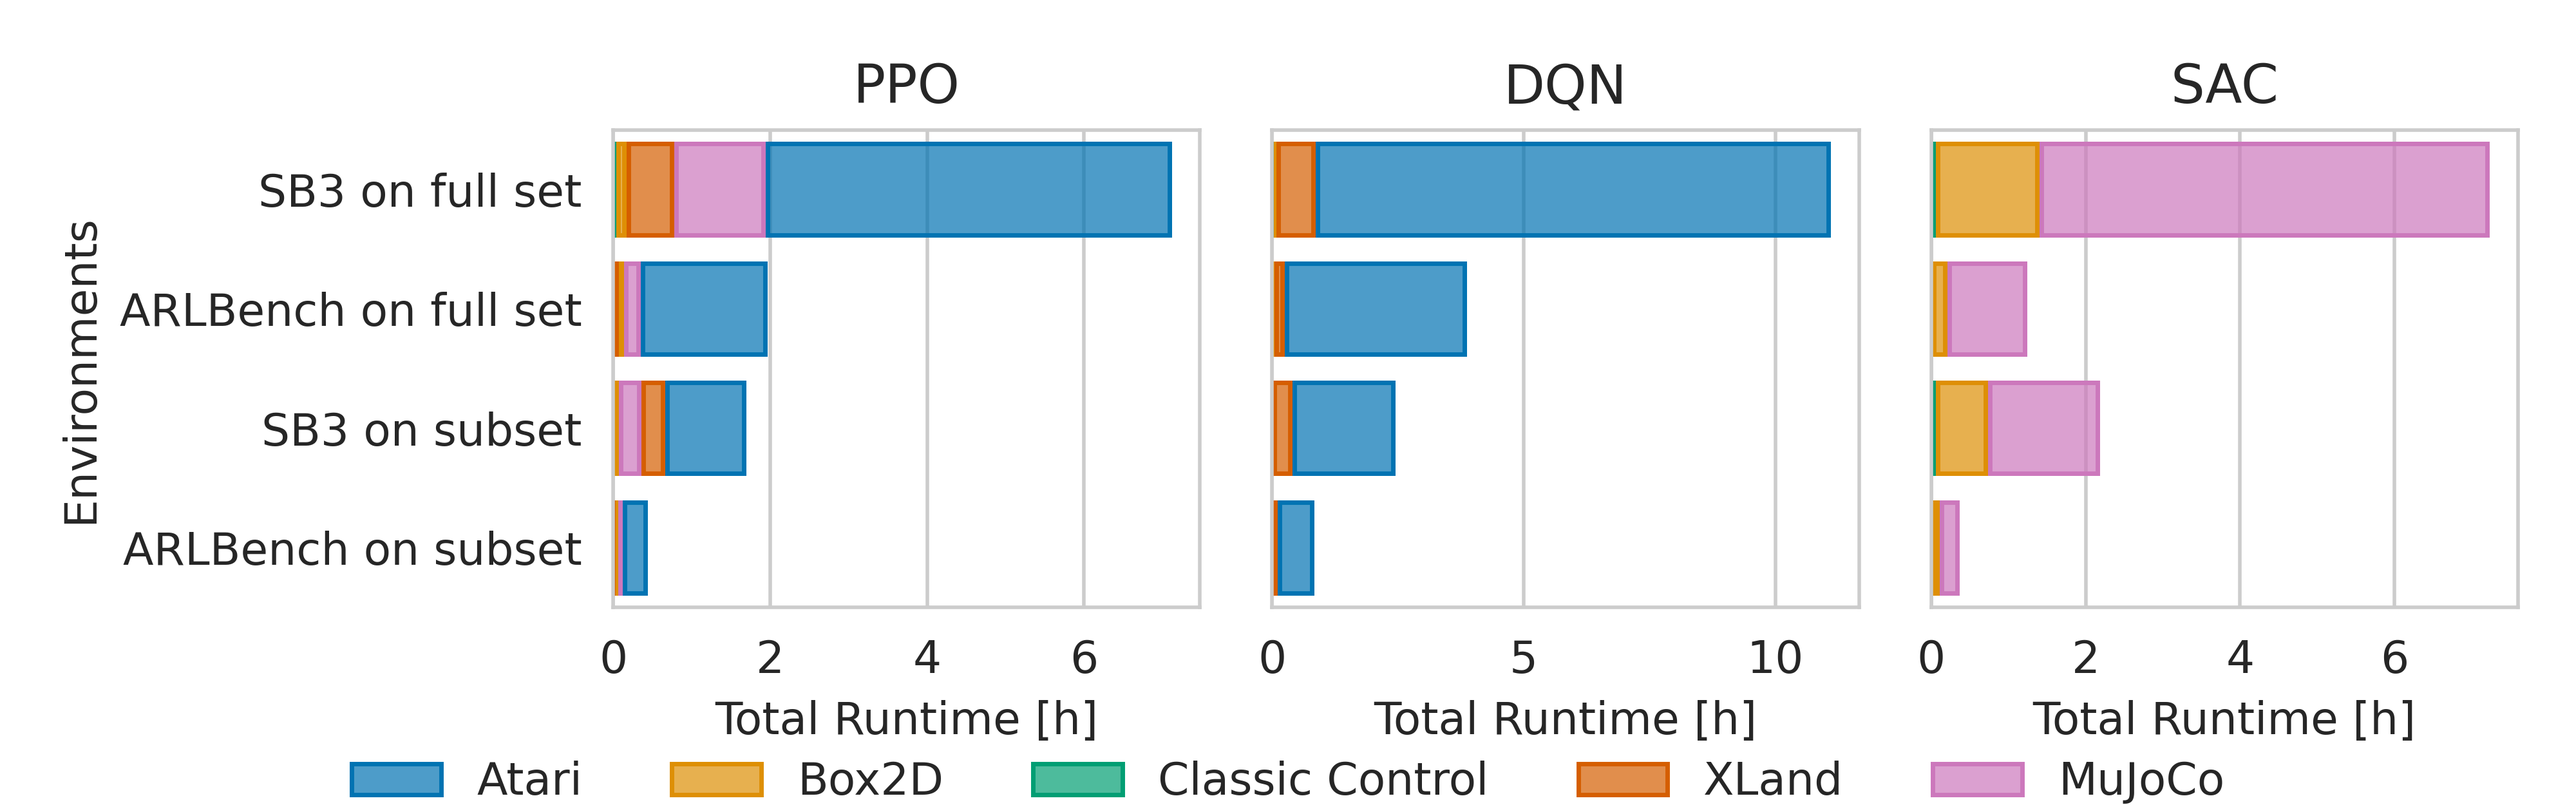
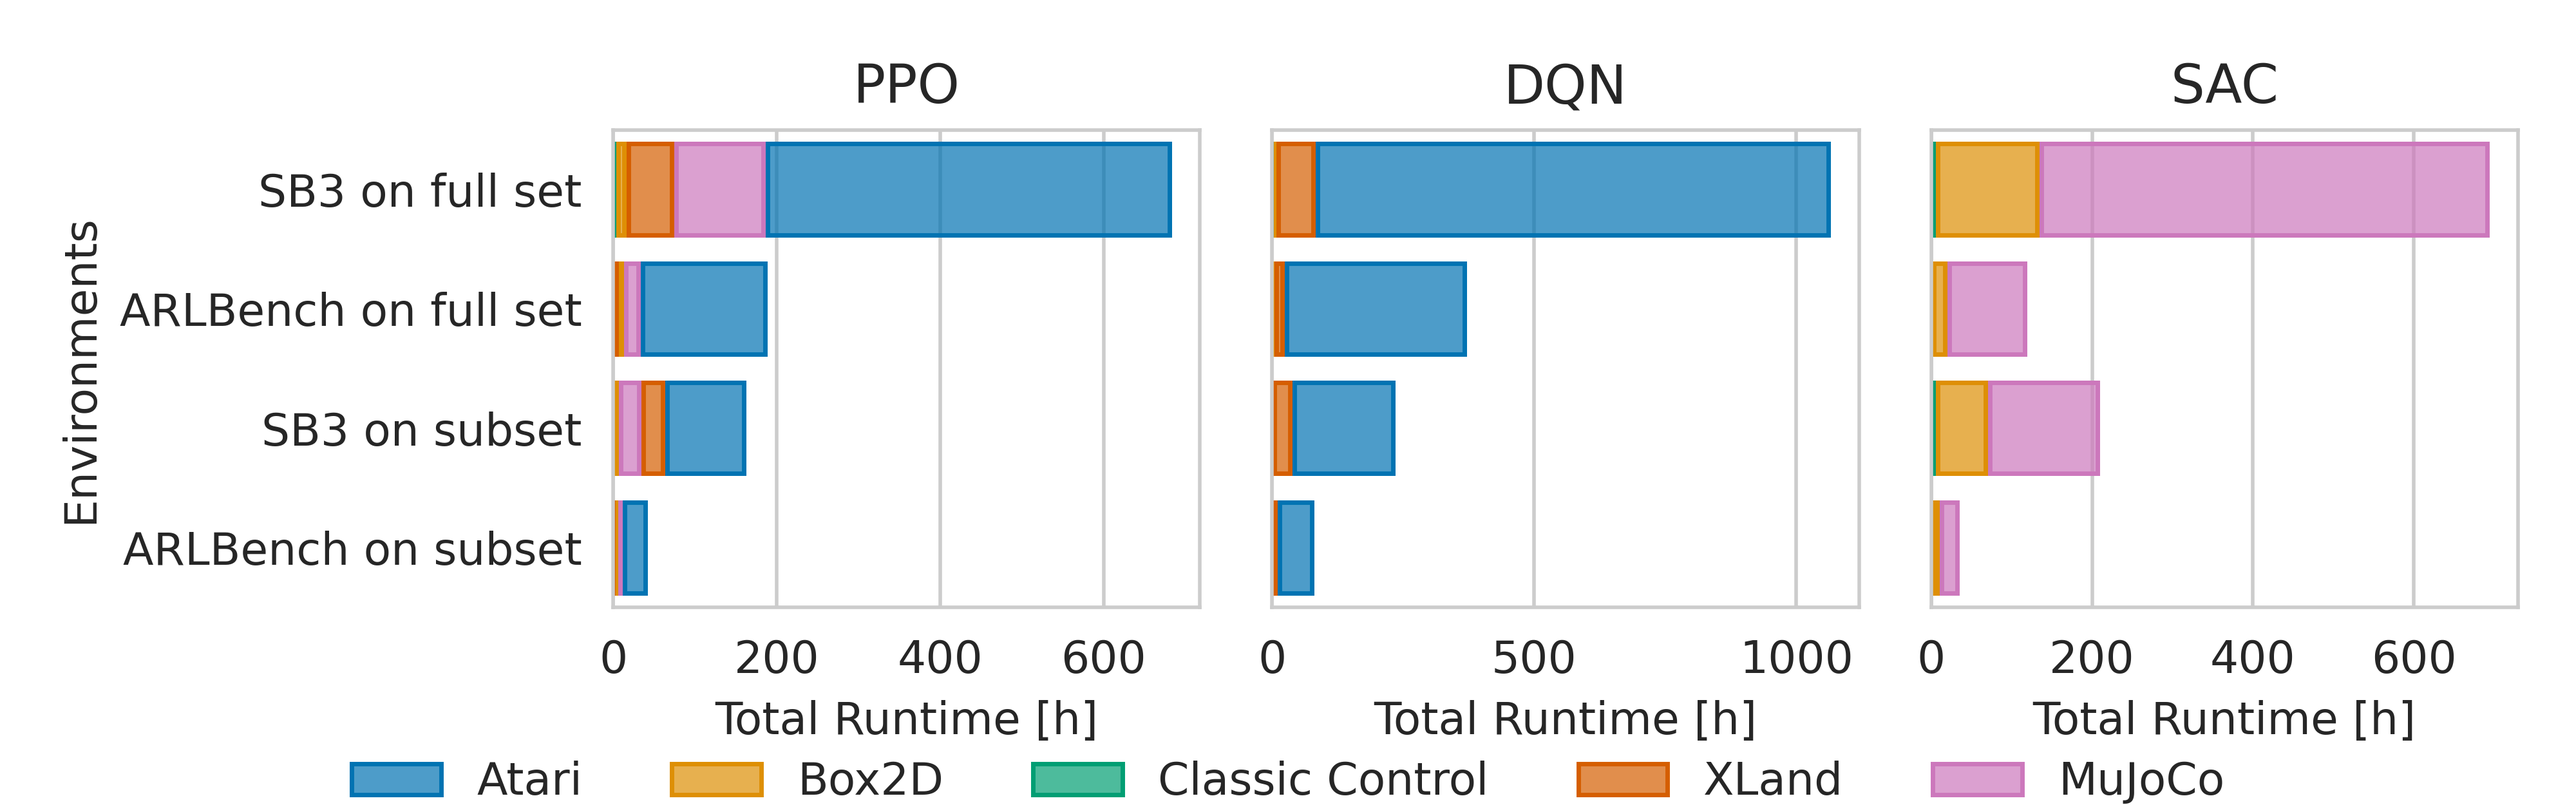
updated plots

diff --git a/runtime_comparisons/plot_optimizers_over_time.py b/runtime_comparisons/plot_optimizers_over_time.py
@@ -5,7 +5,78 @@ import os
 from scipy.interpolate import interp1d
 import numpy as np
 import gc
+from collections import defaultdict
+import warnings
+import logging
+import sys
 
+
+logging.basicConfig(stream=sys.stdout, level=logging.INFO, format="%(asctime)s %(message)s")
+
+warnings.filterwarnings("ignore")
+
+RAW_SOBOL_RESULTS = "results_combined/sobol"
+
+EXPERIMENT_TO_ENV = {
+    "brax_halfcheetah": "halfcheetah",
+    "procgen_heist_easy": "HeistEasy-v0",
+    "minigrid_unlock": "MiniGrid-Unlock",
+    "procgen_plunder_easy": "PlunderEasy-v0",
+    "procgen_jumper_easy": "JumperEasy-v0",
+    "mujoco_inverted_double_pendulum": "InvertedDoublePendulum-v4",
+    "cc_cartpole": "CartPole-v1",
+    "procgen_bossfight_easy": "BossfightEasy-v0",
+    "procgen_climber_easy": "ClimberEasy-v0",
+    "atari_breakout": "Breakout-v5",
+    "brax_swimmer": "swimmer",
+    "brax_walker2d": "walker2d",
+    "procgen_maze_easy": "MazeEasy-v0",
+    "brax_fast": "fast",
+    "procgen_dodgeball_easy": "DodgeballEasy-v0",
+    "cc_pendulum": "Pendulum-v1",
+    "brax_inverted_double_pendulum": "inverted_double_pendulum",
+    "brax_humanoid_standup": "humanoidstandup",
+    "atari_pong": "Pong-v5",
+    "minigrid_empty_random": "MiniGrid-EmptyRandom-5x5",
+    "procgen_ninja_easy": "NinjaEasy-v0",
+    "box2d_lunar_lander": "LunarLander-v2",
+    "atari_battle_zone": "BattleZone-v5",
+    "brax_pusher": "pusher",
+    "procgen_starpilot_easy": "StarpilotEasy-v0",
+    "mujoco_reacher": "Reacher-v4",
+    "atari_double_dunk": "DoubleDunk-v5",
+    "mujoco_humanoid_standup": "HumanoidStandup-v4",
+    "procgen_leaper_easy": "LeaperEasy-v0",
+    "atari_phoenix": "Phoenix-v5",
+    "mujoco_ant": "Ant-v4",
+    "mujoco_pusher": "Pusher-v4",
+    "mujoco_hopper": "Hopper-v4",
+    "mujoco_inverted_pendulum": "InvertedPendulum-v4",
+    "procgen_bigfish_easy": "BigfishEasy-v0",
+    "mujoco_swimmer": "Swimmer-v4",
+    "brax_hopper": "hopper",
+    "brax_ant": "ant",
+    "atari_this_game": "NameThisGame-v5",
+    "mujoco_halfcheetah": "HalfCheetah-v4",
+    "mujoco_humanoid": "Humanoid-v4",
+    "brax_reacher": "reacher",
+    "procgen_miner_easy": "MinerEasy-v0",
+    "procgen_chaser_easy": "ChaserEasy-v0",
+    "cc_continuous_mountain_car": "MountainCarContinuous-v0",
+    "minigrid_four_rooms": "MiniGrid-FourRooms",
+    "brax_inverted_pendulum": "inverted_pendulum",
+    "atari_qbert": "Qbert-v5",
+    "cc_mountain_car": "MountainCar-v0",
+    "procgen_coinrun_easy": "CoinrunEasy-v0",
+    "box2d_lunar_lander_continuous": "LunarLanderContinuous-v2",
+    "minigrid_door_key": "MiniGrid-DoorKey-5x5",
+    "box2d_bipedal_walker": "BipedalWalker-v3",
+    "cc_acrobot": "Acrobot-v1",
+    "procgen_fruitbot_easy": "FruitbotEasy-v0",
+    "mujoco_walker2d": "Walker2d-v4",
+    "procgen_caveflyer_easy": "CaveflyerEasy-v0",
+    "brax_humanoid": "humanoid",
+}
 
 OPTIMIZERS = ["rs", "smac", "smac_mf", "pbt"]
 OPTIMIZER_NAMES = {
@@ -52,7 +123,39 @@ sns.set_style("whitegrid")
 sns.set_palette("colorblind")
 
 
+def read_min_max_scores():
+    min_score = defaultdict(dict)
+    max_score = defaultdict(dict)
+
+    for result_file in os.listdir(RAW_SOBOL_RESULTS):
+        result_path = os.path.join(RAW_SOBOL_RESULTS, result_file)
+        if os.path.isdir(result_path):
+            continue
+
+        result_raw = pd.read_csv(result_path)
+
+        # We don"t need the particular hyperparameter configuration
+        result_filtered = result_raw[["run_id", "performance", "seed"]]
+
+        # Match desired format
+        result_filtered = result_filtered.rename(
+            columns={"run_id": "Configuration", "performance": "Score", "seed": "Seed"}
+        )
+
+        # Extract properties from the file name of the result
+        splitted_filename = result_file.replace(".csv", "").split("_")
+        algorithm = splitted_filename[-1]
+        environment = "_".join(splitted_filename[:-1])
+
+        environment = EXPERIMENT_TO_ENV[environment]
+
+        min_score[algorithm][environment] = result_filtered["Score"].min()
+        max_score[algorithm][environment] = result_filtered["Score"].max()
+
+    return min_score, max_score
+
 def read_opt_data(exp: str):
+    logging.info(f"Reading {exp}")
     all_data = []
 
     for opt in OPTIMIZERS:
@@ -103,8 +206,8 @@ def interpolate(opt_data: pd.DataFrame) -> pd.DataFrame:
         new_cum_budget = pd.Series(np.arange(int(min_budget), int(max_opt_budget) + 1, 100), name="cum_budget")
         df_merged = pd.DataFrame(new_cum_budget)
 
-        df_merged = pd.merge(df_merged, group_opt_data, on="cum_budget", how="left")
-        interpolated_opt_data = df_merged.interpolate(method="linear")
+        interpolated_opt_data = pd.merge(df_merged, group_opt_data, on="cum_budget", how="left")
+        interpolated_opt_data["performance"] = interpolated_opt_data["performance"].ffill()
         interpolated_opt_data = interpolated_opt_data[interpolated_opt_data["cum_budget"] <= max_budget + 1]
 
 
@@ -117,64 +220,93 @@ def interpolate(opt_data: pd.DataFrame) -> pd.DataFrame:
     interpolated_data = df[df["cum_budget"] % STEP_SIZE == 0]
     interpolated_data[interpolated_data["cum_budget"] <= max_budget]
 
-    del df
-
     return interpolated_data
 
 
-def get_incumbent(opt_data: pd.DataFrame, exp: str, method: str) -> pd.DataFrame:
-    best_config_opt_data = opt_data.groupby(["optimizer", "cum_budget", "seed"]).apply(lambda x: x.loc[x["performance"].idxmin()]).reset_index(drop=True)
-    
+def get_incumbent(opt_data: pd.DataFrame, exp: str, method: str, min_scores = None, max_scores = None) -> pd.DataFrame:
+    best_config_opt_data = (
+        opt_data.groupby(["optimizer", "cum_budget", "seed"], as_index=False)
+        .apply(lambda group: group.loc[group["performance"].idxmin()])
+        .reset_index(drop=True))
+    best_config_opt_data = best_config_opt_data.drop(columns=["run_id"])
+
     result_path = os.path.join(OPT_RESULTS_DIR, f"{exp}.csv")
-    if os.path.isfile(result_path):
+    if os.path.isfile(result_path) and False:   # TODO remove debug fix
         interpolated_opt_data = pd.read_csv(result_path)
     else:
         interpolated_opt_data = interpolate(best_config_opt_data)
         interpolated_opt_data.to_csv(result_path, index=False)
-
     incumbent_opt_data = interpolated_opt_data.sort_values(by=["optimizer", "seed", "cum_budget"])
     incumbent_opt_data["incumbent"] = incumbent_opt_data.groupby(["optimizer", "seed"])["performance"].cummin()
     incumbent_opt_data = incumbent_opt_data[["cum_budget", "optimizer", "seed", "incumbent"]]
 
     incumbent_opt_data = incumbent_opt_data.dropna()
 
+    algorithm, environment = exp.split("_")
+
     if method == "rank":
-        incumbent_opt_data["rank"] = incumbent_opt_data.groupby(["cum_budget", "seed"])["incumbent"].rank()
+         incumbent_opt_data["rank"] = incumbent_opt_data.groupby(["cum_budget", "seed"])["incumbent"].rank()
+    elif method == "regret":
+        def min_max_normalize(row):
+            min_score = min_scores[algorithm][environment]
+            max_score = max_scores[algorithm][environment]
+            normalized_score = (row["incumbent"] - min_score) / (max_score - min_score)
+            return normalized_score
+
+        incumbent_opt_data.loc[:, "regret"] = incumbent_opt_data.apply(min_max_normalize, axis=1)
 
     incumbent_opt_data = incumbent_opt_data.sort_values("cum_budget")
+    
+    # Clip the optimizer by the minimum observed across all optimizers
+    max_cum_budget_per_optimizer = incumbent_opt_data.groupby("optimizer")["cum_budget"].max()
+    incumbent_opt_data = incumbent_opt_data[incumbent_opt_data["cum_budget"] <= max_cum_budget_per_optimizer.min()]
+
+    incumbent_opt_data = incumbent_opt_data.sort_values("cum_budget")
+
     return incumbent_opt_data
 
-def plot_opt_over_time(exp: str, rank: bool = False):
+def plot_opt_over_time(exp: str, method: str):
+    min_scores, max_scores = None, None
+    if method == "regret":
+        min_scores, max_scores = read_min_max_scores()
+
     opt_data = read_opt_data(exp)
     if opt_data is None:
         return
 
     algorithm, environment = exp.split("_")
     
-    method = "rank" if rank else ""
-    incumbent_opt_data = get_incumbent(opt_data, exp, method)
+    incumbent_opt_data = get_incumbent(opt_data, exp, method, min_scores=min_scores, max_scores=max_scores)
 
-    fig = plt.figure(figsize=(7, 5))
-    g = sns.lineplot(data=incumbent_opt_data, x="cum_budget", y="rank" if rank else "incumbent", hue="optimizer", errorbar=("ci", 95), hue_order=HUE_ORDER)
+    fig = plt.figure(figsize=(4, 3))
+    g = sns.lineplot(data=incumbent_opt_data, x="cum_budget", y=method, hue="optimizer", errorbar=("ci", 95), hue_order=HUE_ORDER, drawstyle='steps')
     g.set_title(f"{algorithm.upper()} on {environment}")
-    g.set_ylabel("Rank" if rank else "Cost")
-    g.set_xlabel("Optimization Budget")
+    g.set_ylabel("Rank" if method == "rank" else "Regret")
+    g.set_xlabel("Steps")
 
-    path = os.path.join(OPT_PLOTS_DIR, f"{exp + '_rank' if method == 'rank' else exp}.png")
-    plt.legend(title="Optimizer")
-    plt.tight_layout()
+    g.legend(loc='upper center', bbox_to_anchor=(0.5, -0.25), ncol=2, fancybox=False, shadow=False, frameon=False)
+
+    plt.tight_layout(pad=0.2, rect=(0, -0.05, 1, 1))
+
+    path = os.path.join(OPT_PLOTS_DIR, method, f"{exp}.png")
     plt.savefig(path, dpi=500)
+    logging.info(f"Saved {path}")
+
     plt.close()
 
+def plot_envs_opt_over_time(algorithm: str, envs: list[str], category_name: str, method: str):
+    min_scores, max_scores = None, None
+    if method == "regret":
+        min_scores, max_scores = read_min_max_scores()
 
-def plot_envs_opt_over_time(algorithm: str, envs: list[str], category_name: str):
     all_opt_data = []
     for env in envs:
         exp = f"{algorithm}_{env}"
         opt_data = read_opt_data(exp)
         if opt_data is None:
             continue
-        incumbent_opt_data = get_incumbent(opt_data, exp, "rank")
+
+        incumbent_opt_data = get_incumbent(opt_data, exp, method, min_scores=min_scores, max_scores=max_scores)
 
         incumbent_opt_data["env"] = env
         all_opt_data += [incumbent_opt_data]
@@ -182,18 +314,33 @@ def plot_envs_opt_over_time(algorithm: str, envs: list[str], category_name: str)
     if len (all_opt_data) == 0:
         return
 
-    all_opt_data = pd.concat(all_opt_data)
-    
-    fig = plt.figure(figsize=(7, 5))
-    g = sns.lineplot(data=incumbent_opt_data, x="cum_budget", y="rank", hue="optimizer", errorbar=("ci", 95), hue_order=HUE_ORDER)
-    g.set_title(f"{algorithm.upper()} on {category_name}")
-    g.set_ylabel("Rank")
-    g.set_xlabel("Optimization Budget")
+    concat_opt_data = pd.concat(all_opt_data)
 
-    path = os.path.join(OPT_PLOTS_DIR, f"{algorithm}_{category_name}.png")
-    plt.legend(title="Optimizer")
-    plt.tight_layout()
+    min_cum_budget = concat_opt_data['cum_budget'].min()
+    max_cum_budget = concat_opt_data['cum_budget'].max()
+
+    for opt_data in all_opt_data:
+        opt_data['normalized_cum_budget'] = (opt_data['cum_budget'] - min_cum_budget) / (max_cum_budget - min_cum_budget)
+
+    all_opt_data = pd.concat(all_opt_data)
+
+    # Clip the optimizer by the minimum observed across all optimizers
+    # max_cum_budget_per_optimizer = all_opt_data.groupby("optimizer")["cum_budget"].max()
+    # all_opt_data = all_opt_data[all_opt_data["cum_budget"] <= max_cum_budget_per_optimizer.min()]
+    
+    fig = plt.figure(figsize=(4, 3))
+    g = sns.lineplot(data=all_opt_data, x="normalized_cum_budget", y=method, hue="optimizer", errorbar=("ci", 95), hue_order=HUE_ORDER)
+    g.set_title(f"{algorithm.upper()} on {category_name}")
+    g.set_ylabel("Rank" if method == "rank" else "Regret")
+    g.set_xlabel("Steps")
+
+    g.legend(loc='upper center', bbox_to_anchor=(0.5, -0.25), ncol=2, fancybox=False, shadow=False, frameon=False)
+
+    plt.tight_layout(pad=0.2, rect=(0, -0.05, 1, 1))
+
+    path = os.path.join(OPT_PLOTS_DIR, method, "categories", f"{algorithm}_{category_name}.png")
     plt.savefig(path, dpi=500)
+    logging.info(f"Saved {path}")
     plt.close()
 
 
@@ -223,7 +370,7 @@ def plot_3_opt_over_time(experiments: list[str]):
 
     axes[0].set_ylabel("Cost")
 
-    fig.legend(loc='upper center', bbox_to_anchor=(0.5, 0.1), ncol=4, fancybox=False, shadow=False, frameon=False)
+    plt.legend(loc='upper center', bbox_to_anchor=(0.5, -0.1), ncol=4, fancybox=False, shadow=False, frameon=False)
 
     plt.tight_layout(pad=1.3)
     path = os.path.join(OPT_PLOTS_DIR, f"three_opt.png")
@@ -232,19 +379,24 @@ def plot_3_opt_over_time(experiments: list[str]):
 
 
 if __name__ == "__main__":
-    # plot_3_opt_over_time(["ppo_Acrobot-v1", "dqn_CartPole-v1", "sac_Pendulum-v1"])
-    for exp in os.listdir("results/smac_mf"):
-       plot_opt_over_time(exp, rank=False)
-       plot_opt_over_time(exp, rank=True)
-       gc.collect()
+    # plot_envs_opt_over_time("dqn", ["CartPole-v1", "Acrobot-v1"], "test", "regret")
 
     for algorithm, subset_envs in SUBSETS.items():
-        plot_envs_opt_over_time(algorithm, subset_envs, "Subset")
+        plot_envs_opt_over_time(algorithm, subset_envs, "Subset", "regret")
+        break
 
     for algorithm, category in ENV_CATEGORIES.items():
         envs = [env for cat_envs in category.values() for env in cat_envs]
-        plot_envs_opt_over_time(algorithm, envs, "Full Set")
+        plot_envs_opt_over_time(algorithm, envs, "Full Set", "regret")
+        break
 
     for algorithm, category in ENV_CATEGORIES.items():
         for category_name, envs in category.items():
-            plot_envs_opt_over_time(algorithm, envs, category_name)
+            plot_envs_opt_over_time(algorithm, envs, category_name, "regret")
+            break
+
+    for exp in os.listdir("results/smac_mf"):
+       plot_opt_over_time(exp, "rank")
+       plot_opt_over_time(exp, "regret")
+       gc.collect()
+       break

diff --git a/runtime_comparisons/plot_runtime_comparisons.py b/runtime_comparisons/plot_runtime_comparisons.py
@@ -212,7 +212,9 @@ def plot_runtime_comparisons():
 
     print(all_runtimes)
 
-    all_runtimes["runtime"] /= 3600
+    all_runtimes["runtime"] /= 3600     # to hours
+    all_runtimes["runtime"] *= 96     # 32 trainings on 3 seeds each
+
     
     for i, algorithm in enumerate(env_categories.keys()):
         runtime_data = all_runtimes[all_runtimes["algorithm"] == algorithm]
